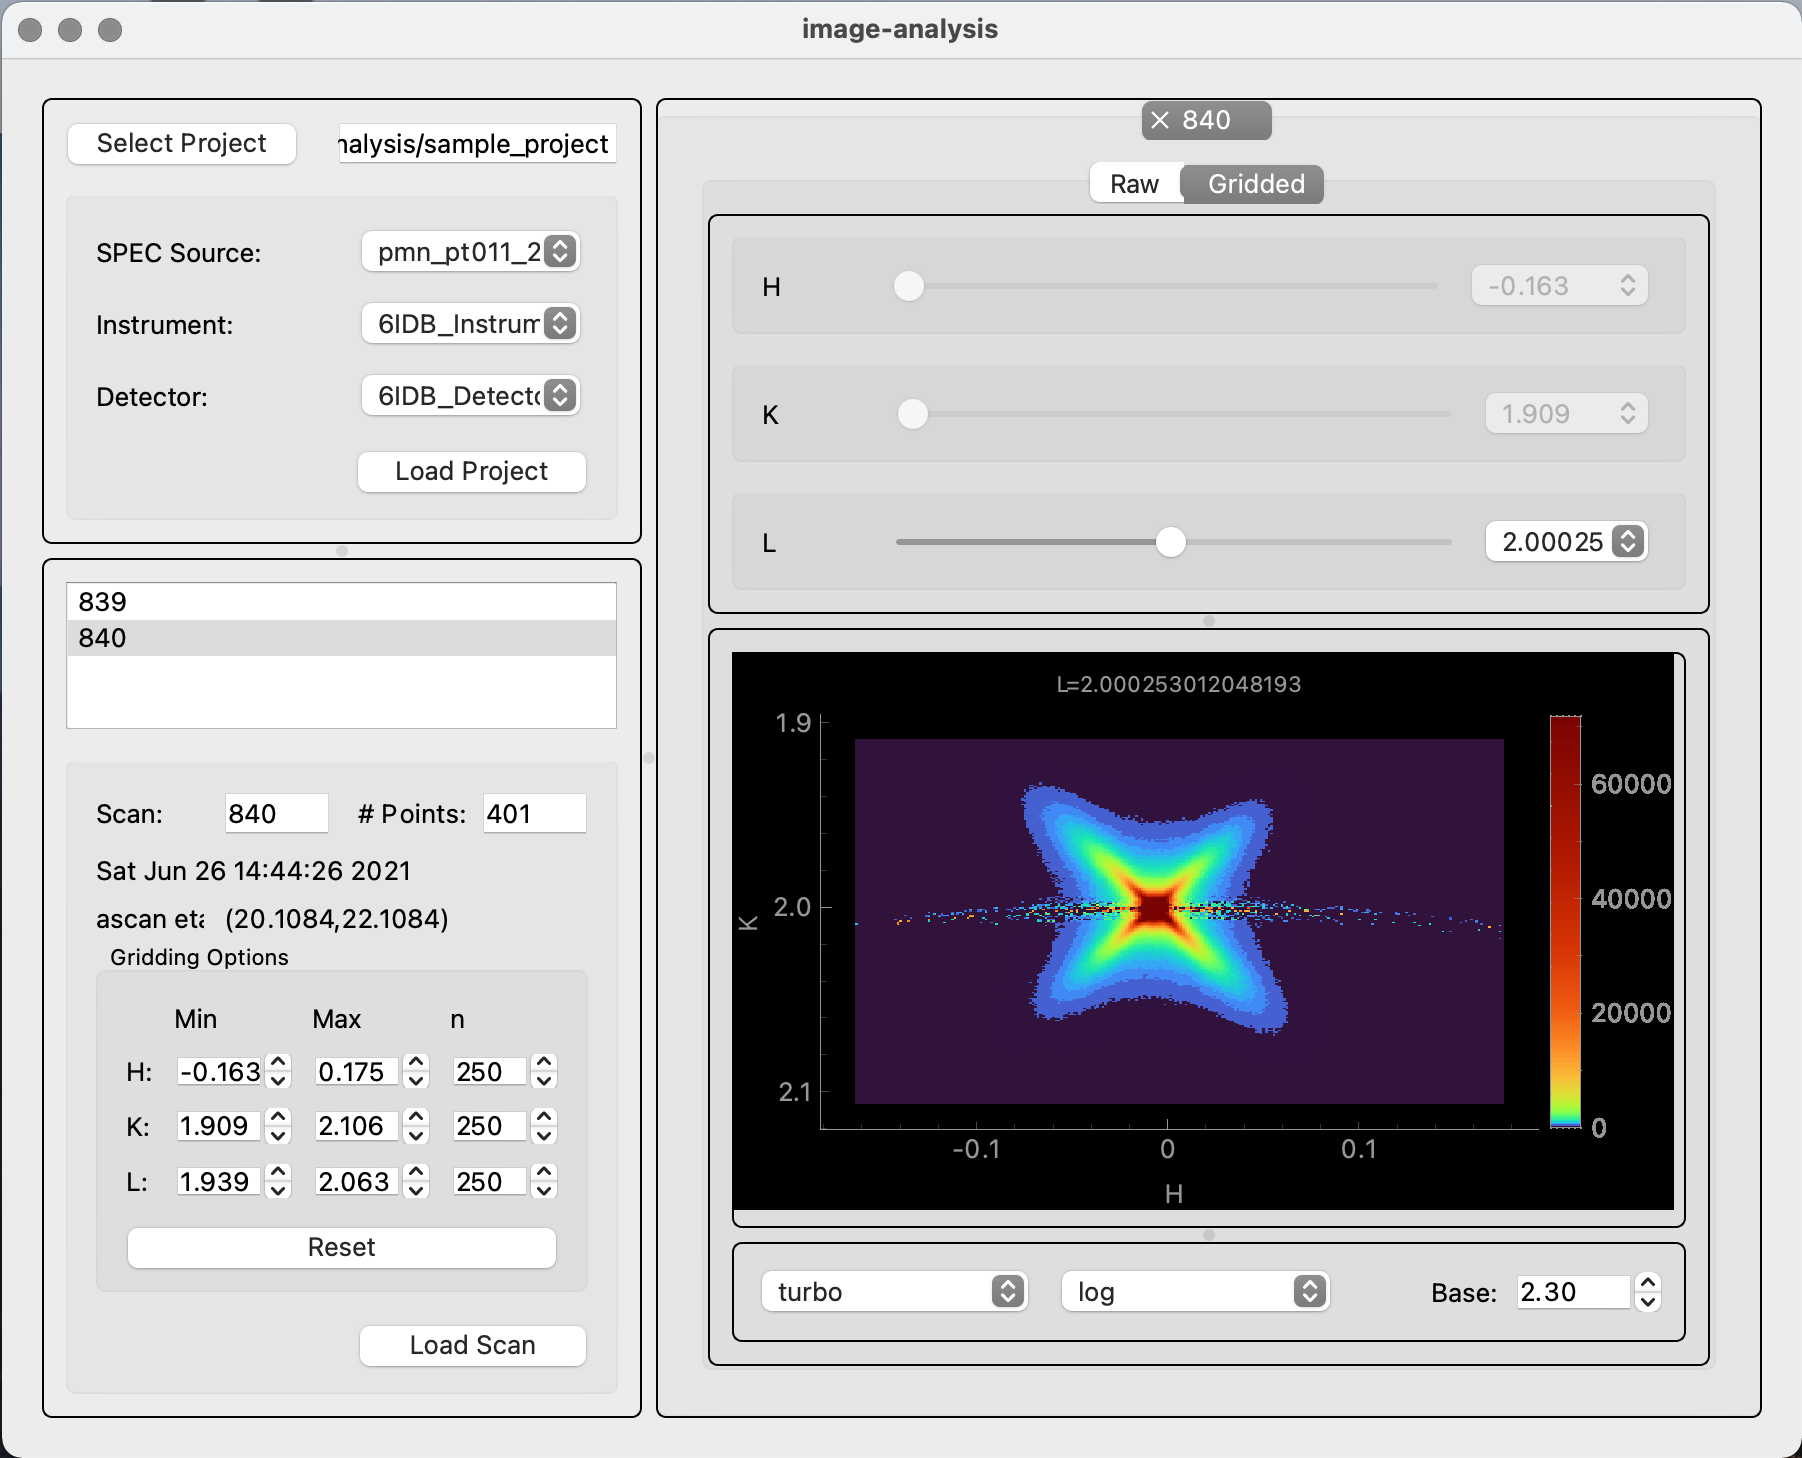
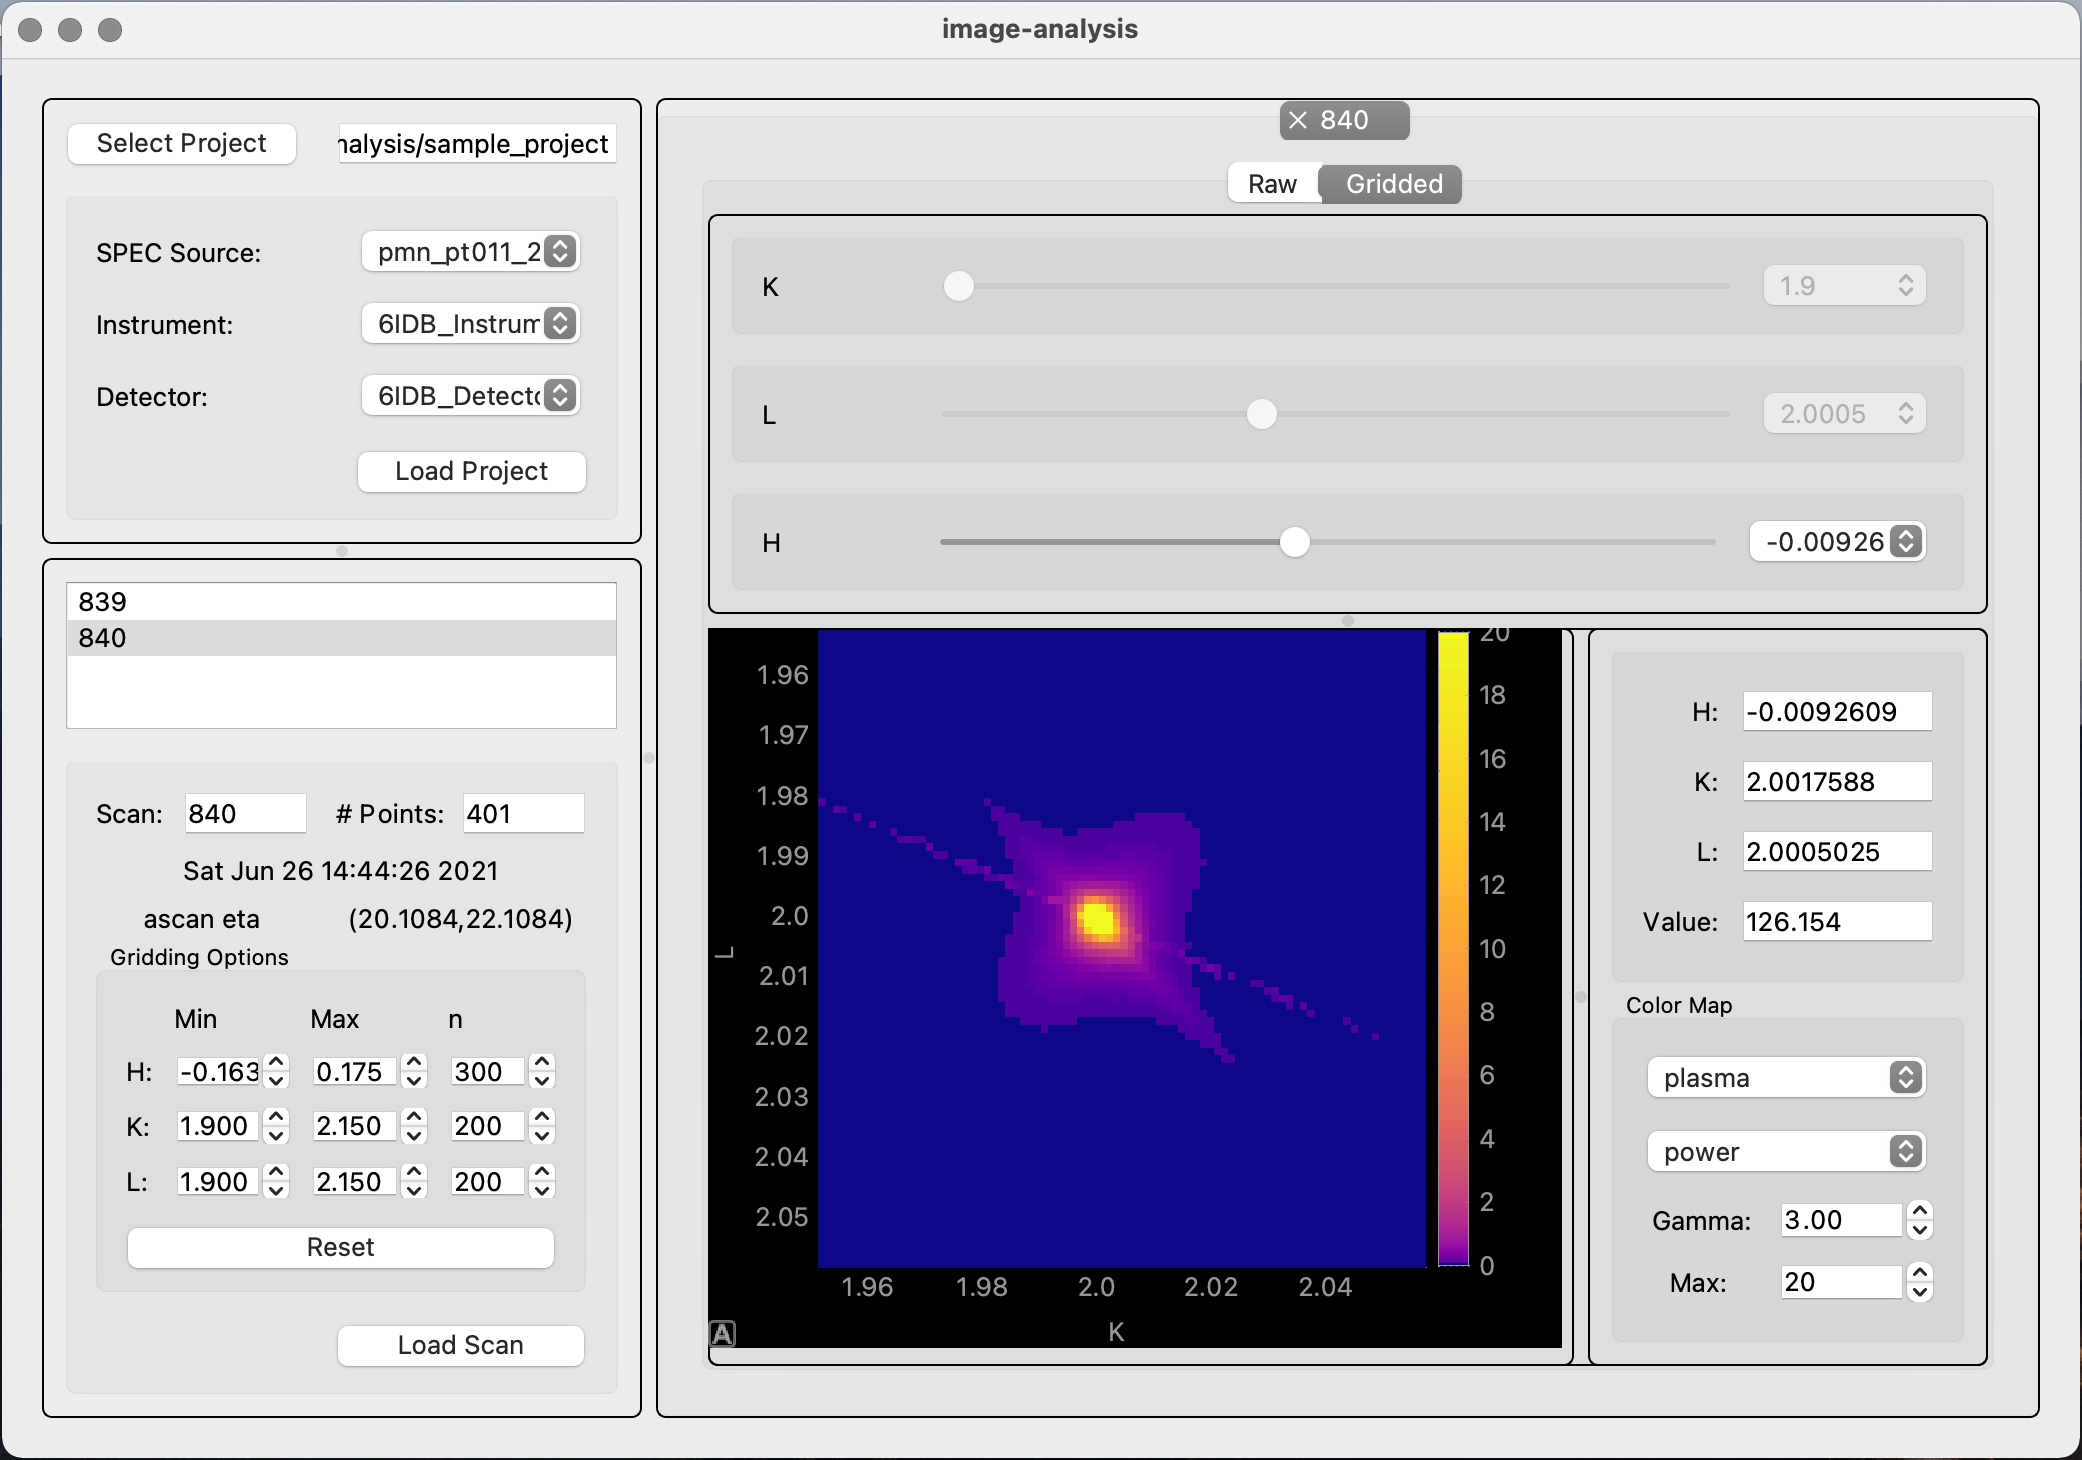
v0.1.2

diff --git a/setup.py b/setup.py
@@ -3,7 +3,7 @@ from setuptools import setup, find_packages
 NAME = "Henry Smith"
 EMAIL = "smithh@anl.gov"
 URL = "https://github.com/henryjsmith12/image-analysis"
-VERSION = "0.1.1"
+VERSION = "0.1.2"
 DESCRIPTION = "Python-based software for XRD data analysis."
 LONG_DESCRIPTION = "Python-based software for XRD data analysis. Allows users to analyze raw XRD scan images and reciprocal space-converted datasets."
 

diff --git a/CHANGELOG.md b/CHANGELOG.md
@@ -14,3 +14,13 @@ Basic color mapping.
 
 ### Added
 - ColorMapWidget for creating custom color maps
+
+## [0.1.2] - 2022-08-09
+Additional color mapping functions and mouse tracking.
+
+### Added
+- Option to change maximum pixel value of a color map.
+- Mouse info section that tracks HKL positions and intensity of a pixel when hovered over.
+
+### Fixed
+- Color bars now accurately represent an image's color map
